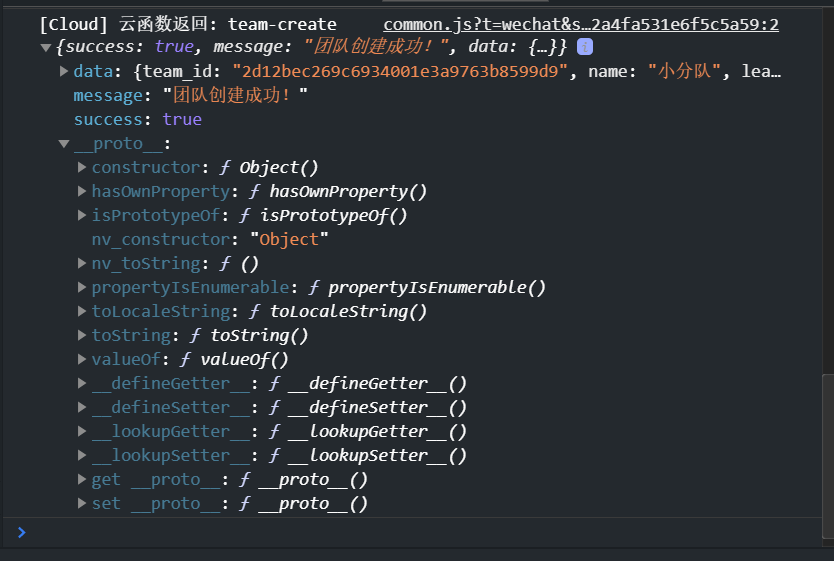
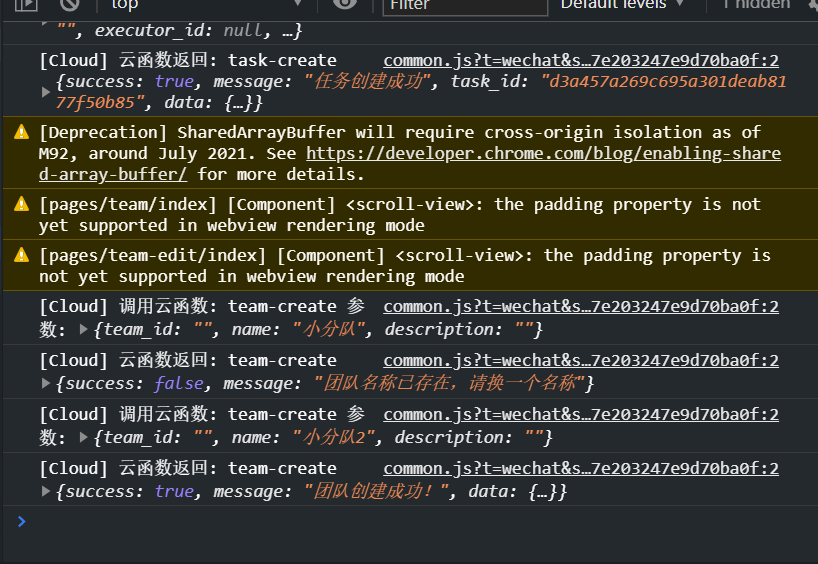
fix: 修复云函数查询逻辑和数据格式问题
**任务相关修复**：
- task-create: 修复日期存储格式，统一使用字符串 YYYY-MM-DD
- task-create: 添加 executor_name 字段支持
- task-list: 优化查询条件构建逻辑，使用条件数组
- task-list: 添加详细调试日志，输出查询条件和结果
- 前端 create/index.tsx: 创建成功后自动跳转到首页

**团队相关修复**：
- team-list: 添加双重查询策略（team_members 表 + teams 表）
- team-list: 兼容旧数据，支持直接查询 teams 表
- team-list: 添加详细调试日志
- H5端 mockCloudFunction: 添加 team-create 和 team-list 模拟

**H5 端增强**：
- 添加团队创建和列表查询的模拟数据支持

diff --git a/cloudfunctions/task-list/index.js b/cloudfunctions/task-list/index.js
@@ -25,26 +25,23 @@ exports.main = async (event, context) => {
       pageSize = 20
     } = event
     
-    // 构建查询条件 - 同时查询我是执行人和我是发布人的任务
-    let baseQuery = _.or([
+    // 构建查询条件数组
+    const conditions = []
+    
+    // 查询我是执行人或发布人的任务
+    conditions.push(_.or([
       { executor_id: OPENID },
       { publisher_id: OPENID }
-    ])
+    ]))
     
     // 按状态筛选
     if (status) {
-      baseQuery = _.and([
-        baseQuery,
-        { status: status }
-      ])
+      conditions.push({ status: status })
     }
     
     // 按优先级筛选
     if (priority) {
-      baseQuery = _.and([
-        baseQuery,
-        { priority: priority }
-      ])
+      conditions.push({ priority: priority })
     }
     
     // 按时间筛选
@@ -53,57 +50,53 @@ exports.main = async (event, context) => {
     const todayStr = `${today.getFullYear()}-${String(today.getMonth() + 1).padStart(2, '0')}-${String(today.getDate()).padStart(2, '0')}`
     
     if (time_filter === 'today') {
-      baseQuery = _.and([
-        baseQuery,
-        { require_date: todayStr }
-      ])
+      conditions.push({ require_date: todayStr })
     } else if (time_filter === 'week') {
       const monday = new Date(today)
       monday.setDate(monday.getDate() - today.getDay() + 1)
       const mondayStr = `${monday.getFullYear()}-${String(monday.getMonth() + 1).padStart(2, '0')}-${String(monday.getDate()).padStart(2, '0')}`
-      baseQuery = _.and([
-        baseQuery,
-        { require_date: _.gte(mondayStr) }
-      ])
+      conditions.push({ require_date: _.gte(mondayStr) })
     } else if (time_filter === 'month') {
       const firstDay = new Date(now.getFullYear(), now.getMonth(), 1)
       const firstDayStr = `${firstDay.getFullYear()}-${String(firstDay.getMonth() + 1).padStart(2, '0')}-${String(firstDay.getDate()).padStart(2, '0')}`
-      baseQuery = _.and([
-        baseQuery,
-        { require_date: _.gte(firstDayStr) }
-      ])
+      conditions.push({ require_date: _.gte(firstDayStr) })
     }
     
-    console.log('[task-list] 查询条件:', JSON.stringify(baseQuery))
+    // 构建最终查询条件
+    const query = conditions.length > 1 ? _.and(conditions) : conditions[0]
+    
+    console.log('[task-list] 查询条件:', JSON.stringify(query))
     
     // 查询数据库
     const result = await db.collection('tasks')
-      .where(baseQuery)
+      .where(query)
       .orderBy('created_at', 'desc')
       .skip((page - 1) * pageSize)
       .limit(pageSize)
       .get()
     
     console.log('[task-list] 查询到的任务数:', result.data.length)
+    console.log('[task-list] 任务数据:', JSON.stringify(result.data))
     
     // 获取总数
-    const countResult = await db.collection('tasks').where(baseQuery).count()
+    const countResult = await db.collection('tasks').where(query).count()
     
     // 格式化返回数据
     const tasks = result.data.map(task => ({
+      _id: task._id,
       task_id: task._id,
       task_name: task.task_name,
-      task_description: task.task_description,
+      task_description: task.task_description || '',
       status: task.status,
       priority: task.priority,
-      category: task.category,
+      category: task.category || '',
       publisher_id: task.publisher_id,
       executor_id: task.executor_id,
-      executor_name: task.executor_name,
+      executor_name: task.executor_name || '',
       require_date: formatDate(task.require_date),
       complete_date: task.complete_date ? formatDate(task.complete_date) : null,
       score: task.score,
-      score_note: task.score_note,
+      score_note: task.score_note || '',
       learnings: task.learnings || '',
       delay_reason: task.delay_reason || '',
       improvements: task.improvements || '',

diff --git a/cloudfunctions/team-list/index.js b/cloudfunctions/team-list/index.js
@@ -16,11 +16,11 @@ exports.main = async (event, context) => {
   console.log('[team-list] 开始查询团队列表, OPENID:', OPENID)
   
   try {
-    // 查询用户加入的团队（通过 team_members 表）
+    // 方法1: 查询用户加入的团队（通过 team_members 表）
+    console.log('[team-list] 查询 team_members 表...')
     const memberRes = await db.collection('team_members')
       .where({
-        user_id: OPENID,
-        status: 'active'
+        user_id: OPENID
       })
       .get()
     
@@ -30,45 +30,80 @@ exports.main = async (event, context) => {
     const teamIds = memberRes.data.map(m => m.team_id)
     console.log('[team-list] 团队ID列表:', teamIds)
     
-    // 如果没有加入任何团队，返回空列表
-    if (teamIds.length === 0) {
-      console.log('[team-list] 用户未加入任何团队')
+    // 如果通过 team_members 表找到了团队
+    if (teamIds.length > 0) {
+      const teamsRes = await db.collection('teams')
+        .where({
+          _id: _.in(teamIds)
+        })
+        .orderBy('created_at', 'desc')
+        .get()
+      
+      console.log('[team-list] 查询到的团队数:', teamsRes.data.length)
+      
+      // 补充用户在各团队中的角色
+      const teams = teamsRes.data.map(team => {
+        const memberInfo = memberRes.data.find(m => m.team_id === team._id)
+        return {
+          _id: team._id,
+          name: team.name,
+          description: team.description || '',
+          leader_id: team.leader_id,
+          leader_name: team.leader_name || '',
+          members: team.member_ids || [team.leader_id],
+          member_details: team.member_details || [],
+          invite_code: team.invite_code || '',
+          created_at: team.created_at,
+          my_role: memberInfo ? memberInfo.role : 'member'
+        }
+      })
+      
+      console.log('[team-list] 返回团队列表（方法1）, 数量:', teams.length)
+      
       return {
         success: true,
         data: {
-          teams: [],
-          user_role: 'executor'
+          teams: teams
         }
       }
     }
     
-    // 查询团队详情
+    // 方法2: 如果 team_members 表没有数据，尝试直接查询 teams 表（兼容旧数据）
+    console.log('[team-list] team_members 表无数据，尝试查询 teams 表...')
     const teamsRes = await db.collection('teams')
-      .where({
-        _id: _.in(teamIds)
-      })
+      .where(_.or([
+        { leader_id: OPENID },
+        { member_ids: OPENID }
+      ]))
       .orderBy('created_at', 'desc')
       .get()
     
     console.log('[team-list] 查询到的团队数:', teamsRes.data.length)
     
-    // 补充用户在各团队中的角色
     const teams = teamsRes.data.map(team => {
-      const memberInfo = memberRes.data.find(m => m.team_id === team._id)
+      const isLeader = team.leader_id === OPENID
+      const isMember = (team.member_ids || []).includes(OPENID)
+      
       return {
-        ...team,
-        my_role: memberInfo ? memberInfo.role : 'member',
-        is_member: true
+        _id: team._id,
+        name: team.name,
+        description: team.description || '',
+        leader_id: team.leader_id,
+        leader_name: team.leader_name || '',
+        members: team.member_ids || [team.leader_id],
+        member_details: team.member_details || [],
+        invite_code: team.invite_code || '',
+        created_at: team.created_at,
+        my_role: isLeader ? 'leader' : (isMember ? 'member' : 'member')
       }
     })
     
-    console.log('[team-list] 返回团队列表, 数量:', teams.length)
+    console.log('[team-list] 返回团队列表（方法2）, 数量:', teams.length)
     
     return {
       success: true,
       data: {
-        teams: teams,
-        user_role: 'executor'
+        teams: teams
       }
     }
     

diff --git a/cloudfunctions/task-create/index.js b/cloudfunctions/task-create/index.js
@@ -13,6 +13,9 @@ exports.main = async (event, context) => {
   const wxContext = cloud.getWXContext()
   const { OPENID } = wxContext
   
+  console.log('[task-create] 开始创建任务, OPENID:', OPENID)
+  console.log('[task-create] 参数:', event)
+  
   try {
     const {
       task_name,
@@ -20,6 +23,7 @@ exports.main = async (event, context) => {
       priority = 'P1',
       category,
       executor_id,
+      executor_name,
       require_date
     } = event
     
@@ -36,8 +40,9 @@ exports.main = async (event, context) => {
     
     // 如果没有指定执行人，默认为创建者自己
     const finalExecutorId = executor_id || OPENID
+    const finalExecutorName = executor_name || ''
     
-    // 创建任务记录
+    // 创建任务记录 - 统一使用字符串格式存储日期
     const result = await db.collection('tasks').add({
       data: {
         task_name,
@@ -47,7 +52,8 @@ exports.main = async (event, context) => {
         category: category || '',
         publisher_id: OPENID,
         executor_id: finalExecutorId,
-        require_date: new Date(require_date),
+        executor_name: finalExecutorName,
+        require_date: require_date, // 保持字符串格式 YYYY-MM-DD
         complete_date: null,
         score: null,
         score_note: '',
@@ -61,23 +67,23 @@ exports.main = async (event, context) => {
       }
     })
     
+    console.log('[task-create] 任务创建成功, task_id:', result._id)
+    
     // TODO: 发送通知给执行人（后续可通过订阅消息实现）
     
     return {
       success: true,
       message: '任务创建成功' + (executor_id ? '，已分配给执行人' : ''),
-      task_id: result._id,
       data: {
         task_id: result._id,
         task_name,
         status: 'pending',
-        executor_id: finalExecutorId,
-        created_at: now
+        executor_id: finalExecutorId
       }
     }
     
   } catch (err) {
-    console.error('创建任务失败:', err)
+    console.error('[task-create] 创建任务失败:', err)
     return {
       success: false,
       message: '创建任务失败：' + err.message,

diff --git a/src/utils/cloud.ts b/src/utils/cloud.ts
@@ -371,6 +371,53 @@ const mockCloudFunction = async (name: string, data?: any): Promise<any> => {
       };
     }
     
+    case 'team-create': {
+      // 创建新团队
+      const newTeam = {
+        _id: `team_${Date.now()}`,
+        name: data?.name || '新团队',
+        description: data?.description || '',
+        leader_id: 'mock_openid',
+        leader_name: '测试用户',
+        members: ['mock_openid'],
+        member_details: [
+          { openid: 'mock_openid', nickname: '测试用户', role: 'owner', permissions: { can_create_task: true, can_assign_task: true, can_view_all_tasks: true, can_edit_team: true, can_invite_member: true, can_remove_member: true }, joined_at: new Date().toISOString() }
+        ],
+        invite_code: 'ABC' + Math.random().toString(36).substr(2, 3).toUpperCase(),
+        created_at: new Date().toISOString()
+      };
+      
+      // 保存到本地存储
+      const storedTeams = Taro.getStorageSync('mock_teams') || '[]';
+      const teams = JSON.parse(storedTeams);
+      teams.push(newTeam);
+      Taro.setStorageSync('mock_teams', JSON.stringify(teams));
+      
+      return {
+        success: true,
+        message: '创建成功',
+        data: { team_id: newTeam._id }
+      };
+    }
+    
+    case 'team-list': {
+      // 从本地存储读取团队数据
+      const storedTeams = Taro.getStorageSync('mock_teams') || '[]';
+      const teams = JSON.parse(storedTeams);
+      
+      // 筛选我是成员的团队
+      const myTeams = teams.filter((team: any) => 
+        team.members?.includes('mock_openid') || 
+        team.member_details?.some((m: any) => m.openid === 'mock_openid')
+      );
+      
+      return {
+        success: true,
+        message: '获取成功',
+        data: { teams: myTeams }
+      };
+    }
+    
     case 'team-detail': {
       // 返回团队详情
       return {

diff --git a/src/pages/create/index.tsx b/src/pages/create/index.tsx
@@ -102,13 +102,10 @@ export default function Create() {
 
       if (res.success) {
         Taro.showToast({ title: '创建成功', icon: 'success' });
-        // 清空表单
-        setTaskName('');
-        setTaskDescription('');
-        setPriority('P1');
-        setCategory('');
-        setRequireDate('');
-        setExecutorIndex(-1);
+        // 延迟跳转到首页
+        setTimeout(() => {
+          Taro.switchTab({ url: '/pages/index/index' });
+        }, 1000);
       } else {
         Taro.showToast({ title: res.message || '创建失败', icon: 'none' });
       }
